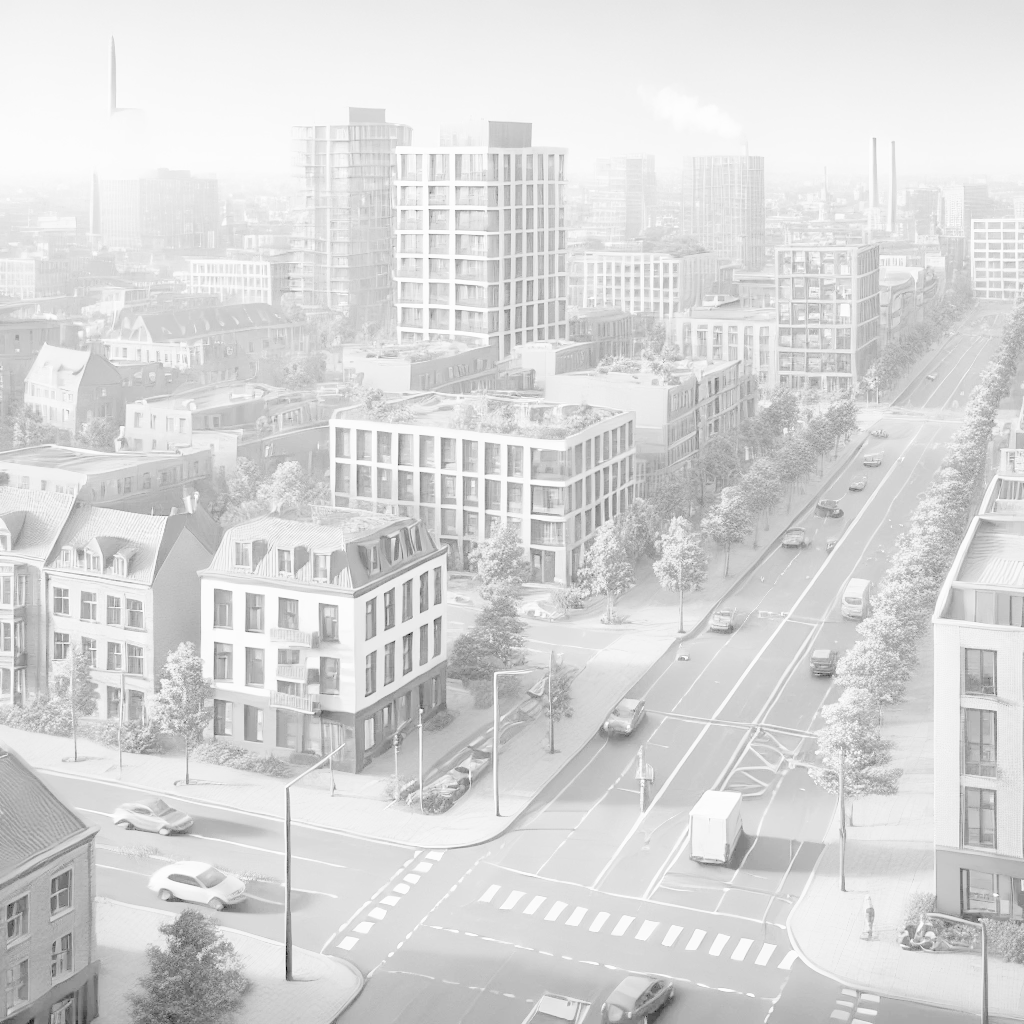
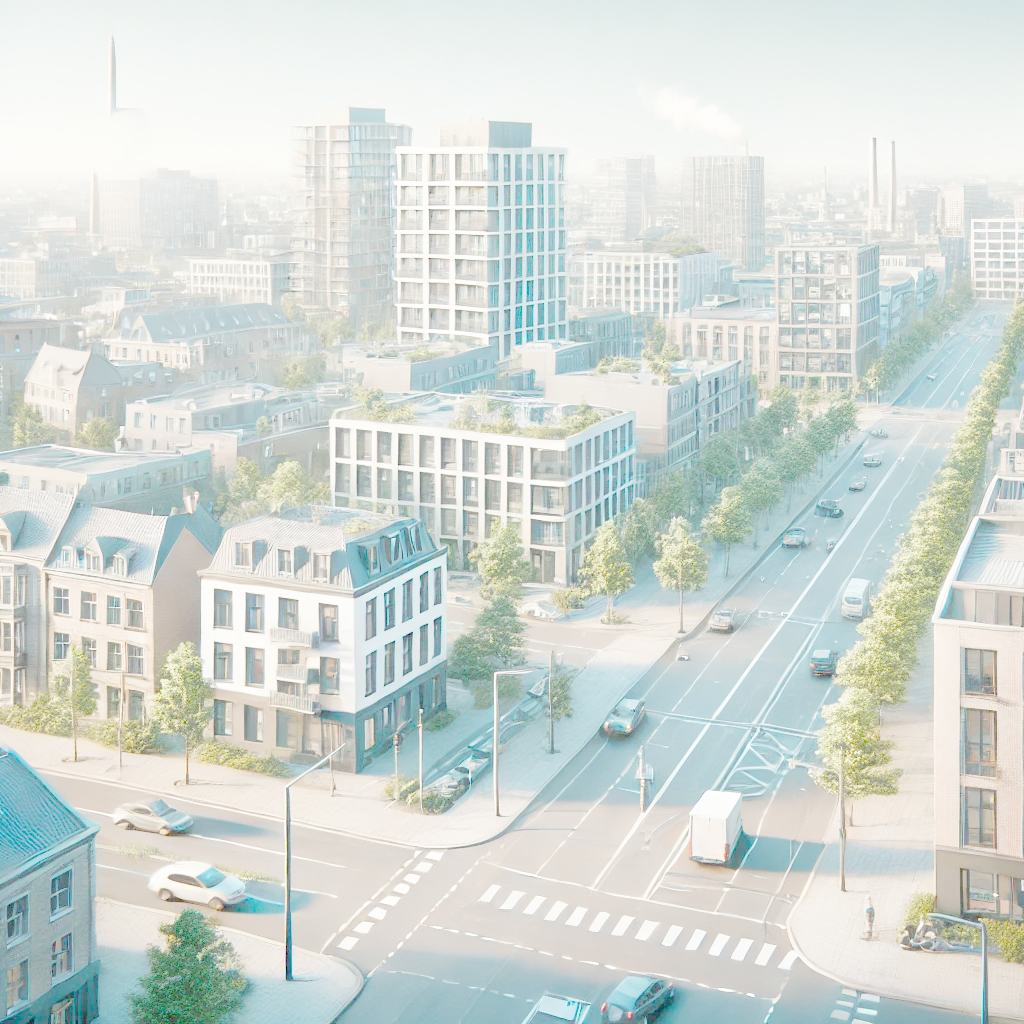
padrao rgb

diff --git a/Trabalho_01/q5/q5.py b/Trabalho_01/q5/q5.py
@@ -1,66 +1,94 @@
 import cv2
 import numpy as np
 
-import cv2
-import numpy as np
-
 def expansao_contraste_linear(imagem):
-    I_min, I_max = np.min(imagem), np.max(imagem)
-    L_min, L_max = 0, 255  # Valores desejados
+    # Separar os canais manualmente
+    canais = [imagem[:, :, 0], imagem[:, :, 1], imagem[:, :, 2]]  # R, G, B
 
-    # Expansão linear manual
-    imagem_expansao = (imagem - I_min) * ((L_max - L_min) / (I_max - I_min)) + L_min
+    canais_expandidos = []
+    for canal in canais:
+        I_min, I_max = np.min(canal), np.max(canal)
+        L_min, L_max = 0, 255
 
-    # Clipping manual dos valores para manter no intervalo [0, 255]
-    imagem_expansao[imagem_expansao > 255] = 255
-    imagem_expansao[imagem_expansao < 0] = 0
+        # Aplicar a expansão de contraste
+        canal_expansao = (canal - I_min) * ((L_max - L_min) / (I_max - I_min)) + L_min
 
-    return imagem_expansao
+        # Garantir valores válidos entre 0 e 255
+        canal_expansao = np.clip(canal_expansao, 0, 255)
+        canais_expandidos.append(canal_expansao)
+
+    # Reunir os canais manualmente
+    imagem_expansao = np.stack(canais_expandidos, axis=-1)
+    return imagem_expansao.astype(np.uint8)
+
 
 def compressao_expansao(imagem, c=0.0001):
-    # Aplicar a transformação quadrática
-    imagem_transformada = c * np.power(imagem, 2)
+    # Separar os canais manualmente
+    canais = [imagem[:, :, 0], imagem[:, :, 1], imagem[:, :, 2]]  # R, G, B
 
-    # Escalar os valores resultantes para [0, 255]
-    imagem_transformada = (imagem_transformada - np.min(imagem_transformada)) * (255 / (np.max(imagem_transformada) - np.min(imagem_transformada)))
+    canais_comprimidos = []
+    for canal in canais:
+        # Aplicar a transformação quadrática
+        canal_compressao = c * np.power(canal, 2)
 
-    return imagem_transformada.astype(np.uint8)
+        # Reescalar para [0, 255]
+        canal_compressao = (canal_compressao - np.min(canal_compressao)) * (255 / (np.max(canal_compressao) - np.min(canal_compressao)))
 
+        # Garantir valores válidos entre 0 e 255
+        canal_compressao = np.clip(canal_compressao, 0, 255)
+        canais_comprimidos.append(canal_compressao)
+
+    # Reunir os canais manualmente
+    imagem_compressao = np.stack(canais_comprimidos, axis=-1)
+    return imagem_compressao.astype(np.uint8)
 
 def dente_de_serra(imagem, T=128):
-    # Aplicar a função dente de serra
-    imagem_transformada = (imagem % T) * (255 // T)
+    # Separar os canais manualmente
+    canais = [imagem[:, :, 0], imagem[:, :, 1], imagem[:, :, 2]]  # R, G, B
 
-    # Clipping manual dos valores para manter no intervalo [0, 255]
-    imagem_transformada[imagem_transformada > 255] = 255
-    imagem_transformada[imagem_transformada < 0] = 0
+    canais_dente_serra = []
+    for canal in canais:
+        # Aplicar a função dente de serra
+        canal_dente_serra = (canal % T) * (255 // T)
 
-    return imagem_transformada
+        # Garantir valores válidos entre 0 e 255
+        canal_dente_serra = np.clip(canal_dente_serra, 0, 255)
+        canais_dente_serra.append(canal_dente_serra)
+
+    # Reunir os canais manualmente
+    imagem_dente_serra = np.stack(canais_dente_serra, axis=-1)
+    return imagem_dente_serra.astype(np.uint8)
 
 def transformada_logaritmica(imagem):
-    # Adicionar um valor muito pequeno para evitar log(0)
-    imagem_temp = imagem + 1e-5  # Adiciona um valor pequeno sem alterar a imagem original
+    # Separar os canais manualmente
+    canais = [imagem[:, :, 0], imagem[:, :, 1], imagem[:, :, 2]]  # R, G, B
 
-    # Calcular o valor máximo da imagem
-    I_max = np.max(imagem_temp)
+    canais_log = []
+    for canal in canais:
+        # Adicionar um pequeno valor para evitar log(0)
+        canal_temp = canal + 1e-5
 
-    # Garantir que I_max não seja zero
-    if I_max == 0:
-        I_max = 1
+        # Calcular a constante de normalização
+        I_max = np.max(canal_temp)
+        c = 255 / np.log(1 + I_max)
 
-    # Calcular a constante de normalização 'c'
-    c = 255 / (np.log(1 + I_max))
+        # Aplicar a transformação logarítmica
+        canal_log = c * np.log(1 + canal_temp)
 
-    # Aplicar a transformação logarítmica
-    imagem_transformada = c * np.log(1 + imagem_temp)
+        # Reescalar para [0, 255]
+        canal_log = (canal_log - np.min(canal_log)) * (255 / (np.max(canal_log) - np.min(canal_log)))
 
-    # Normalizar o resultado para a faixa [0, 255]
-    imagem_transformada = (imagem_transformada - np.min(imagem_transformada)) * (255 / (np.max(imagem_transformada) - np.min(imagem_transformada)))
+        # Garantir valores válidos entre 0 e 255
+        canal_log = np.clip(canal_log, 0, 255)
+        canais_log.append(canal_log)
 
-    return imagem_transformada.astype(np.uint8)
+    # Reunir os canais manualmente
+    imagem_log = np.stack(canais_log, axis=-1)
+    return imagem_log.astype(np.uint8)
+
 
 # Carregar a imagem
-imagem = cv2.imread('../image/cidade_1024X1024.png', cv2.IMREAD_GRAYSCALE)
+imagem = cv2.imread('../image/cidade_1024X1024.png')
 
 # Aplicar as transformações radiométricas
 imagem_expansao = expansao_contraste_linear(imagem)
